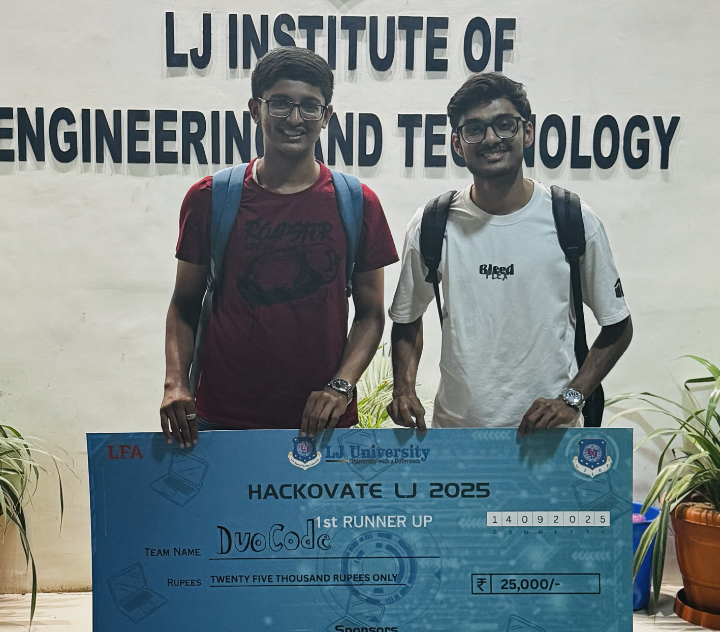
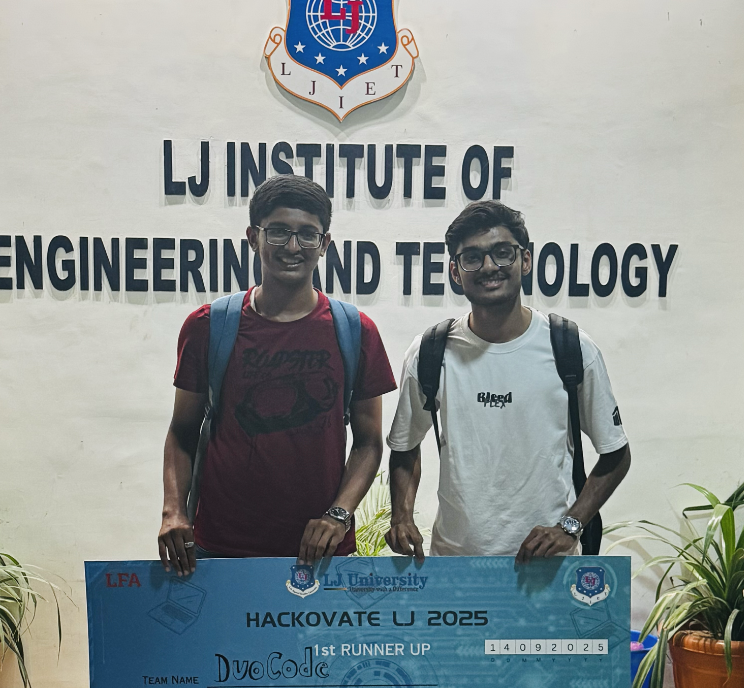
fix: adjust achievements image alignment and scaling

diff --git a/src/components/sections/achievements.tsx b/src/components/sections/achievements.tsx
@@ -23,21 +23,21 @@ const AchievementsSection = () => {
                             <div className="absolute inset-0 bg-gradient-to-r from-black/20 to-transparent z-10" />
 
                             {/* Image Grid */}
-                            <div className="grid grid-cols-1 grid-rows-2 h-full gap-2 p-2 bg-muted/20">
-                                <div className="relative rounded-lg overflow-hidden w-full h-full">
+                            <div className="grid grid-cols-1 grid-rows-2 h-full gap-4 p-4 bg-muted/20">
+                                <div className="relative rounded-lg overflow-hidden w-full h-full bg-black/5">
                                     <Image
                                         src="/assets/hackathon/hack1.png"
                                         alt="Hackovate Stage Moment"
                                         fill
-                                        className="object-cover object-top transition-transform duration-700 group-hover:scale-110"
+                                        className="object-contain object-top transition-transform duration-700 hover:scale-105"
                                     />
                                 </div>
-                                <div className="relative rounded-lg overflow-hidden w-full h-full">
+                                <div className="relative rounded-lg overflow-hidden w-full h-full bg-black/5">
                                     <Image
                                         src="/assets/hackathon/hack2.png"
                                         alt="Winning Moment"
                                         fill
-                                        className="object-cover object-center transition-transform duration-700 group-hover:scale-110"
+                                        className="object-contain object-bottom transition-transform duration-700 hover:scale-105"
                                     />
                                 </div>
                             </div>
